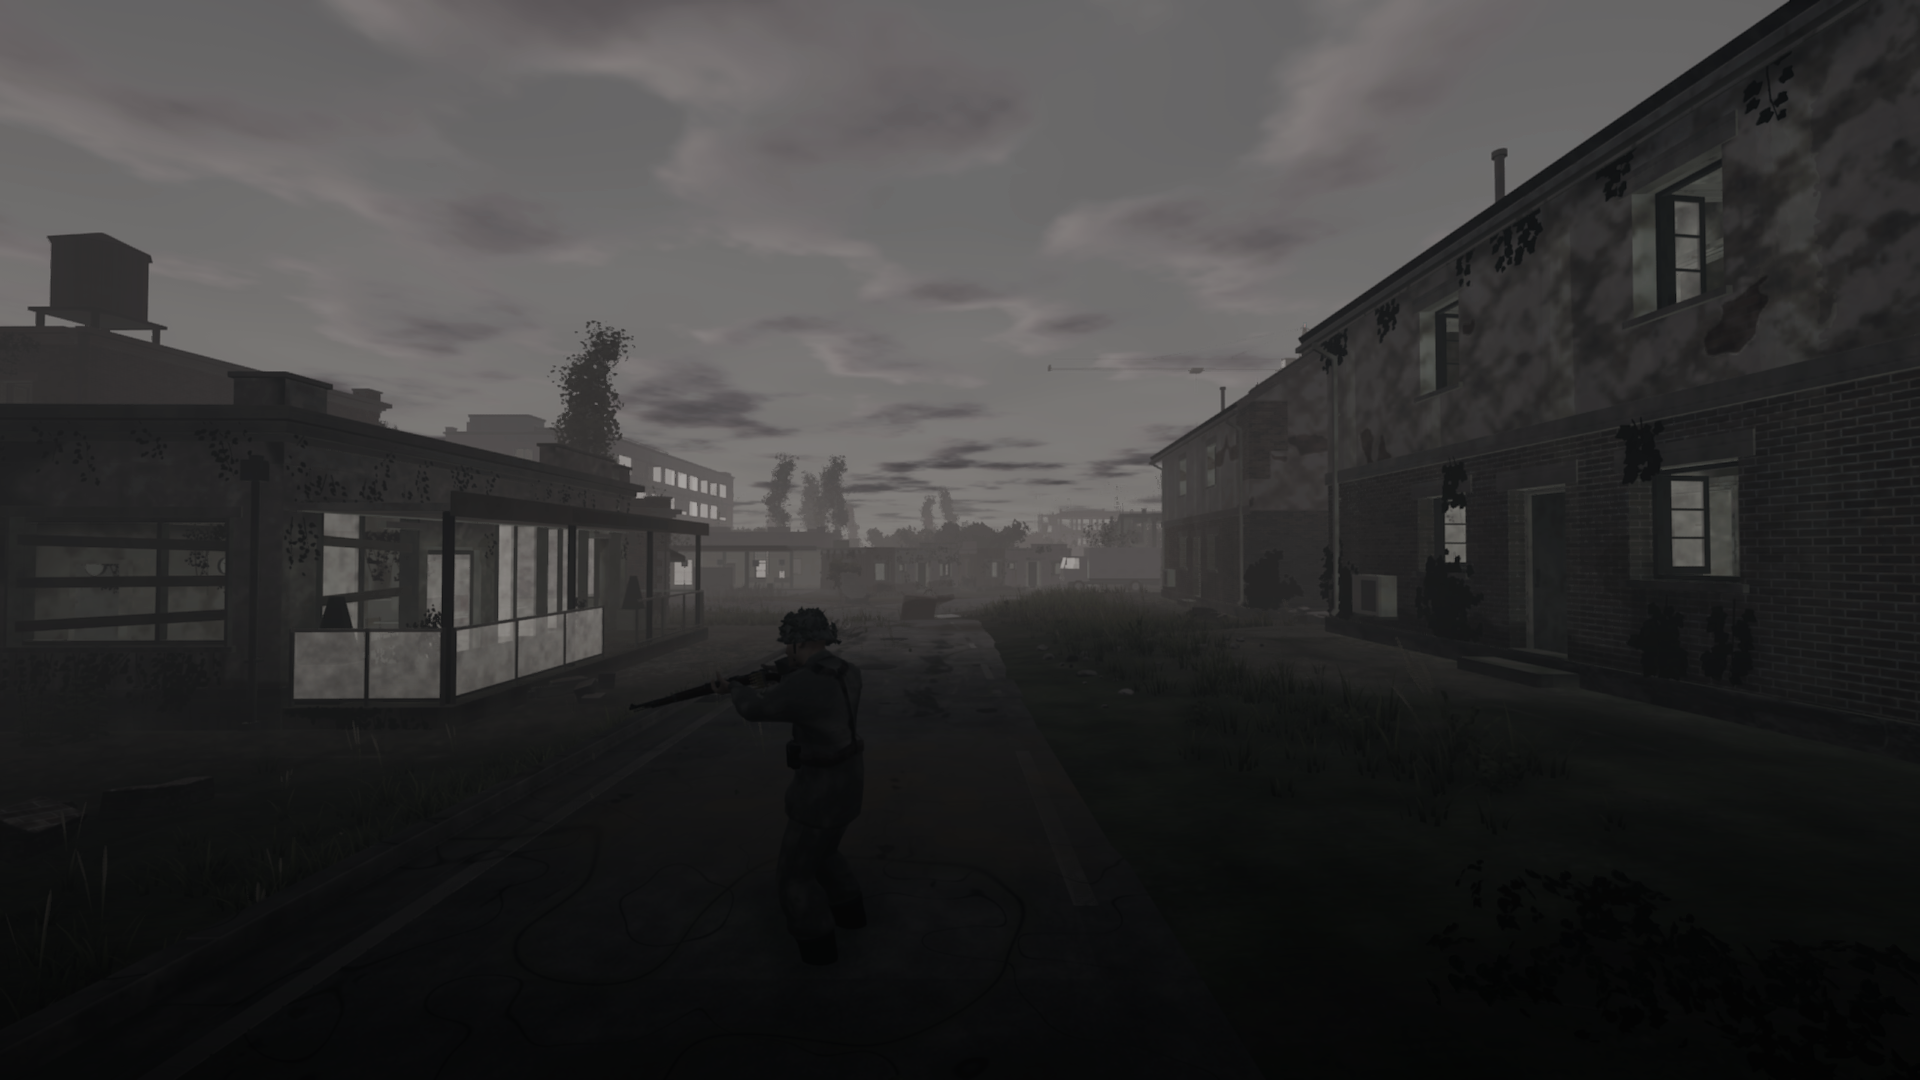
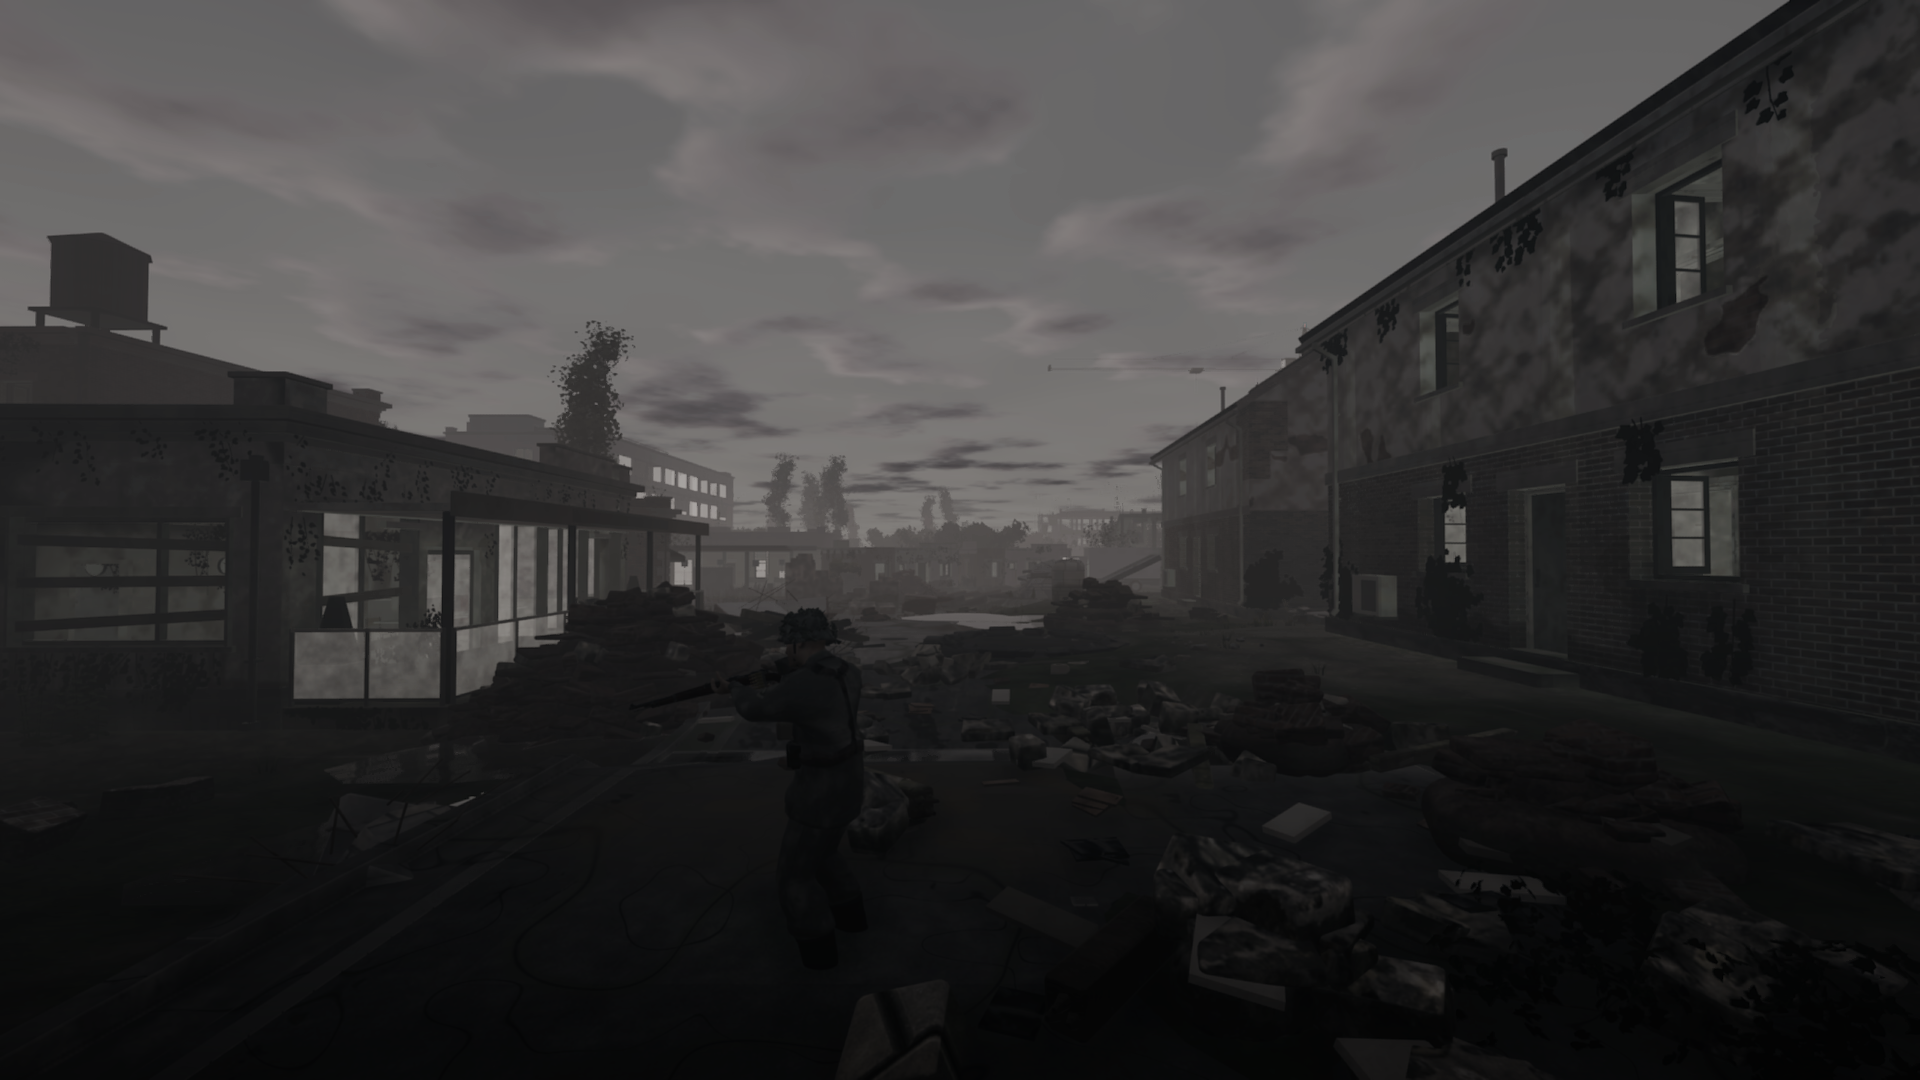
UI3 (d): rubble and battle damage in the menu street
The backdrop capture (NMK_UI2_BACKDROP with NMK_UI2_VIEW) opens Newtown and lays 23 pieces along the street ahead
of the view before the match starts: brick piles, a beam-and-tile heap, debris patches, wall chunks, large / small
rubble, a collapsed wall and slab, a glass pile, asphalt craters, a crater pool and puddles (wet patches), clear of
where the soldier stands. Both stills (with the game's own soldier, and empty for the local cut-out) re-captured
and graded.

diff --git a/src/selftest_modes.cpp b/src/selftest_modes.cpp
@@ -410,7 +410,27 @@ void build(App&) {
     const bool survey = std::getenv("NMK_UI2_SURVEY") != nullptr;
     if (t == 0) {
       const char* m = std::getenv("NMK_UI2_MAP");
-      chk(startMode(a, GameMode::TDM, 24, 999, 2, 1, contentDir() / "templates" / (std::string(m && *m ? m : "newtown") + ".nmap.json")), "UI2 backdrop: TDM starts (%s)", gGame->setupError.c_str());
+      a.openMap(contentDir() / "templates" / (std::string(m && *m ? m : "newtown") + ".nmap.json"));
+      if (const char* v = std::getenv("NMK_UI2_VIEW")) {   // UI3 (d): battle damage along the street ahead of the view (rubble, timber, craters, puddles, a collapsed wall)
+        float x, z, yw, pt; if (sscanf(v, "%f,%f,%f,%f", &x, &z, &yw, &pt) == 4) {
+          const vec3 f = App::forward(yw, 0), r = glm::normalize(glm::cross(f, vec3(0, 1, 0)));
+          struct R { const char* id; float d, lat, yaw; };
+          static const R rub[] = {{"wat_puddles", 3.2f, 1.3f, 70}, {"rub_debris_patch", 4.6f, 2.2f, 20}, {"rub_brick_pile_s", 4.2f, 3.4f, 150}, {"mod_rubble_small", 4.8f, -3.4f, 60}, {"wat_puddles", 8, -1.4f, 10}, {"rub_brick_pile_s", 6.5f, 2.9f, 40}, {"mod_glass_pile", 7, -4.2f, 0}, {"rub_debris_patch", 9.5f, 0.6f, 75},
+            {"rub_brick_pile_l", 11, -4.6f, 200}, {"mod_rubble_small", 12.5f, -2.0f, 15}, {"mod_asphalt_crater", 15, 1.4f, 0}, {"rub_beam_tile_heap", 17, -3.9f, 120},
+            {"rub_brick_pile_m", 19, 3.6f, 300}, {"mod_wall_chunks", 21, -5.2f, 30}, {"wat_puddles", 23, 2.4f, 160}, {"rub_brick_pile_s", 26, -3.1f, 90},
+            {"mod_collapsed_slab", 29, 6.0f, 80}, {"rub_debris_patch", 31, -0.8f, 10}, {"mod_rubble_large", 35, 4.2f, 220}, {"rub_collapsed_wall", 40, -6.3f, 0},
+            {"mod_asphalt_crater", 44, -1.5f, 50}, {"wat_crater_pool", 50, 1.2f, 0}, {"rub_brick_pile_l", 55, -4.0f, 140}};
+          int n = 0;
+          for (const R& q : rub) {
+            if (!a.lib.find(q.id)) continue;
+            vec3 p = vec3(x, 0, z) + f * q.d + r * q.lat;
+            Instance in; in.id = a.doc.newId(); in.assetId = q.id; in.pos = vec3(p.x, a.terrain.height(p.x, p.z), p.z); in.yaw = yw + q.yaw;
+            a.doc.instances.push_back(in); ++n;
+          }
+          a.syncRuntime(); logf("UI2 backdrop: %d rubble pieces in the street", n);
+        }
+      }
+      chk(startMode(a, GameMode::TDM, 24, 999, 2, 1, fs::path()), "UI2 backdrop: TDM starts (%s)", gGame->setupError.c_str());   // the map opened above (with its rubble)
       a.shotsNoViewModel = true; a.R.wx.forced = 1; a.R.wx.fogForced = 3; a.R.wx.snap();
       settings().s.hour = 19.6f; settings().apply(a);
       return false;
